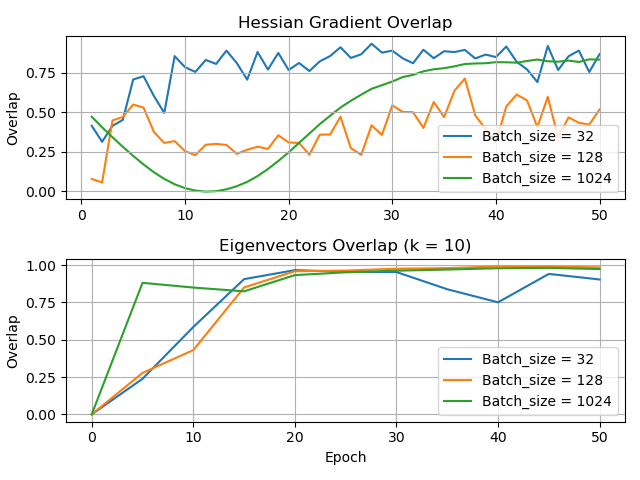
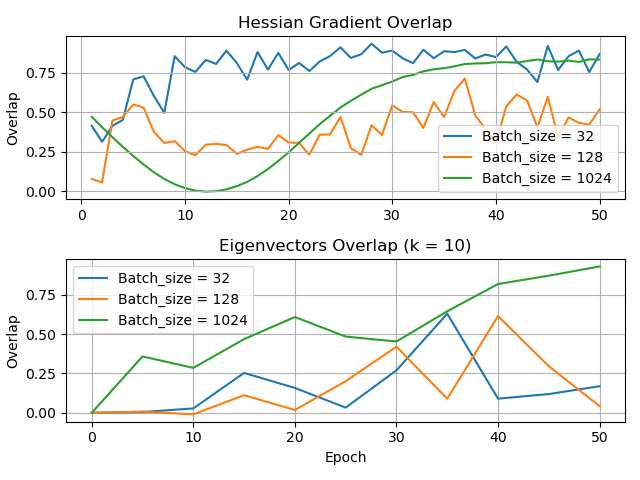
Add files via upload

Changed region(s): [[0.0312, 0.5312, 0.9688, 0.875], [0.0312, 0.75, 0.0938, 0.8125], [0.0312, 0.5312, 0.0938, 0.5625]]

diff --git a/full_batch_experiments.py b/full_batch_experiments.py
@@ -40,7 +40,7 @@ test_labels = jnp.eye(NUM_CLASSES)[np_labels]
 
 
 step_size   = 0.001
-batch_size  = 128
+batch_size  = 32
 NUM_EPOCHS  = 50
 momentum_mass = 0.9
 # Define Architectures
@@ -108,12 +108,12 @@ def update(i, opt_state, batch):
 opt_state = opt_init(init_params)
 itercount = itertools.count()
 
-order = 20
+order = 50
 hvp_cl = lambda v: hessian_computation.hvp2(loss, params, (train_images, train_labels), v)
 key, split = random.split(key)
 
-Hg_overlap_vec128 = jnp.zeros( shape = (NUM_EPOCHS,) )
-Ev_overlap_vec128 = jnp.zeros( shape = (1+ (NUM_EPOCHS//5),) )
+Hg_overlap_vec32 = jnp.zeros( shape = (NUM_EPOCHS,) )
+Ev_overlap_vec32 = jnp.zeros( shape = (1+ (NUM_EPOCHS//5),) )
 
 print("\nStarting training...")
 for epoch in range(NUM_EPOCHS):
@@ -130,24 +130,27 @@ for epoch in range(NUM_EPOCHS):
   flat_grads, _ = ravel_pytree(grads)
   Hg = hvp_cl(flat_grads)
   Hg_overlap = jnp.dot(flat_grads, Hg) / (jnp.linalg.norm(Hg) * jnp.linalg.norm(flat_grads))
-  Hg_overlap_vec128 = Hg_overlap_vec128.at[epoch].set(Hg_overlap)
+  Hg_overlap_vec32 = Hg_overlap_vec32.at[epoch].set(Hg_overlap)
   print("Hg_overlap: ", Hg_overlap)
   
   if(epoch == 0):
-    tridiag, pre_vecs = lanczos.lanczos_alg(hvp_cl, flat_grads.shape[0], order, split)
-    eigs_tridiag, _ = jnp.linalg.eigh(tridiag)
+    tridiag, lancsoz_vecs = lanczos.lanczos_alg(hvp_cl, flat_grads.shape[0], order, split)
+    eigs_tridiag, evecs_tridiag = jnp.linalg.eigh(tridiag)
     eigs_tridiag = eigs_tridiag[-11:]
-    Ev_overlap_vec128 = Ev_overlap_vec128.at[0].set(0)
+    
+    pre_vecs = np.dot(evecs_tridiag.T, lancsoz_vecs)
+    Ev_overlap_vec32 = Ev_overlap_vec32.at[0].set(0)
     print(eigs_tridiag)
   elif( (epoch+1)%5 == 0 ):
-    tridiag, vecs = lanczos.lanczos_alg(hvp_cl, flat_grads.shape[0], order, split)
-    eigs_tridiag, _ = jnp.linalg.eigh(tridiag)
+    tridiag, lancsoz_vecs = lanczos.lanczos_alg(hvp_cl, flat_grads.shape[0], order, split)
+    eigs_tridiag, evecs_tridiag = jnp.linalg.eigh(tridiag)
     eigs_tridiag = eigs_tridiag[-11:]
     print(eigs_tridiag)
-    Ev_overlap = jnp.sum(vecs[0:10,] * pre_vecs[0:10,]) / jnp.sqrt( jnp.sum(vecs[0:10,]*vecs[0:10,]) * jnp.sum(pre_vecs[0:10,]*pre_vecs[0:10,]) )
-    Ev_overlap_vec128 = Ev_overlap_vec128.at[(epoch//5)+1].set(Ev_overlap)
+    eig_vecs = np.dot(evecs_tridiag.T, lancsoz_vecs)
+    Ev_overlap = jnp.sum(eig_vecs[0:10,] * pre_vecs[0:10,]) / jnp.sqrt( jnp.sum(eig_vecs[0:10,]*eig_vecs[0:10,]) * jnp.sum(pre_vecs[0:10,]*pre_vecs[0:10,]) )
+    Ev_overlap_vec32 = Ev_overlap_vec32.at[(epoch//5)+1].set(Ev_overlap)
     print("Ev_overlap: ", Ev_overlap)
-    pre_vecs = vecs
+    pre_vecs = eig_vecs
   
   epoch_time = time.time() - start_time
 
@@ -161,15 +164,15 @@ for epoch in range(NUM_EPOCHS):
 
 fig, ax = plt.subplots(2,1)
 ax[0].plot( list(range(1,NUM_EPOCHS+1))   , Hg_overlap_vec32  , label = 'Batch_size = 32', zorder = 1)
-ax[0].plot( list(range(1,NUM_EPOCHS+1))   , Hg_overlap_vec128 , label = 'Batch_size = 128', zorder = 1)
-ax[0].plot( list(range(1,NUM_EPOCHS+1))   , Hg_overlap_vec1024, label = 'Batch_size = 1024', zorder = 1)
+# ax[0].plot( list(range(1,NUM_EPOCHS+1))   , Hg_overlap_vec128 , label = 'Batch_size = 128', zorder = 1)
+# ax[0].plot( list(range(1,NUM_EPOCHS+1))   , Hg_overlap_vec1024, label = 'Batch_size = 1024', zorder = 1)
 ax[0].grid(True)
 ax[0].set_title('Hessian Gradient Overlap')
 ax[0].set_ylabel('Overlap')
 ax[0].legend()
 ax[1].plot( list(range(0, NUM_EPOCHS+1,5)), Ev_overlap_vec32  , label = 'Batch_size = 32', zorder = 2)
-ax[1].plot( list(range(0, NUM_EPOCHS+1,5)), Ev_overlap_vec128 , label = 'Batch_size = 128', zorder = 2)
-ax[1].plot( list(range(0, NUM_EPOCHS+1,5)), Ev_overlap_vec1024, label = 'Batch_size = 1024', zorder = 2)
+# ax[1].plot( list(range(0, NUM_EPOCHS+1,5)), Ev_overlap_vec128 , label = 'Batch_size = 128', zorder = 2)
+# ax[1].plot( list(range(0, NUM_EPOCHS+1,5)), Ev_overlap_vec1024, label = 'Batch_size = 1024', zorder = 2)
 ax[1].grid(True)
 ax[1].set_title('Eigenvectors Overlap (k = 10)')
 ax[1].set_ylabel('Overlap')
